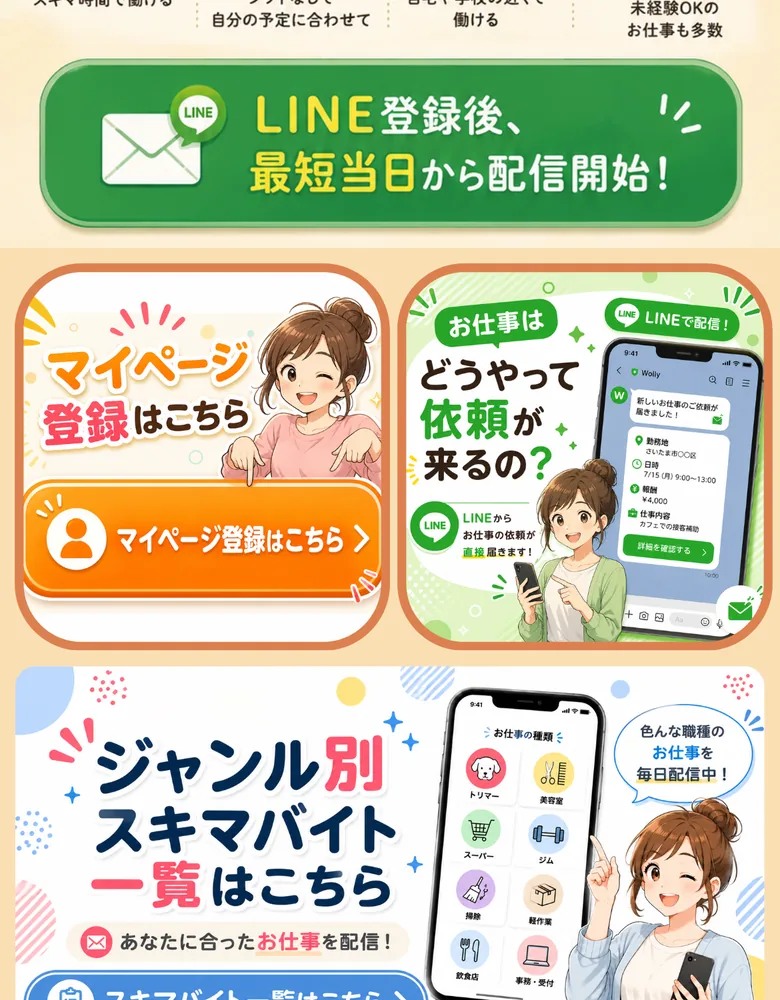
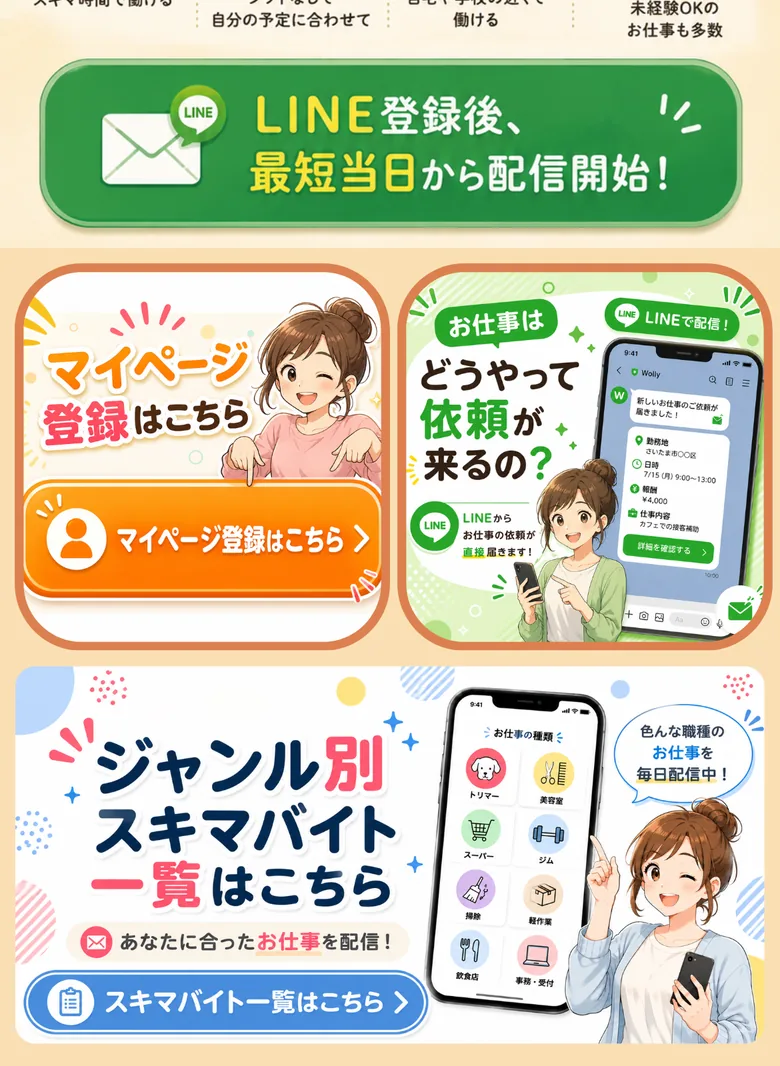
入口ページの下が切れていたのを直す

diff --git a/start/index.html b/start/index.html
@@ -11,7 +11,7 @@
 html,body{margin:0;background:#efe7da;-webkit-text-size-adjust:100%}
 body{font-family:"Hiragino Maru Gothic ProN","Hiragino Sans","Yu Gothic",sans-serif;color:#3a332d}
 a,button{-webkit-tap-highlight-color:transparent}
-.wrap{max-width:560px;margin:0 auto;background:#fff;min-height:100vh;box-shadow:0 0 40px rgba(0,0,0,.08)}
+.wrap{max-width:560px;margin:0 auto;background:#fff;min-height:100vh;padding-bottom:calc(16px + env(safe-area-inset-bottom));box-shadow:0 0 40px rgba(0,0,0,.08)}
 .pg{position:relative;width:100%}
 .pg img{display:block;width:100%;height:auto}
 /* リンクの場所（絵の上に透明のボタン） */
@@ -35,7 +35,7 @@ a,button{-webkit-tap-highlight-color:transparent}
 .sh .grab{position:absolute;top:7px;left:50%;width:44px;height:5px;margin-left:-22px;border-radius:9px;background:rgba(255,255,255,.85);box-shadow:0 1px 4px rgba(0,0,0,.25);z-index:3}
 .x{position:absolute;top:12px;right:12px;z-index:3;width:42px;height:42px;border-radius:50%;border:2px solid #fff;background:rgba(58,51,45,.62);color:#fff;font-size:22px;line-height:1;cursor:pointer;box-shadow:0 3px 10px rgba(0,0,0,.25);display:grid;place-items:center}
 .x:active{transform:scale(.92)}
-.back{display:block;width:calc(100% - 40px);margin:18px auto 28px;padding:14px;border:0;border-radius:999px;background:#5f8f3e;color:#fff;font:inherit;font-weight:700;font-size:16px;box-shadow:0 4px 0 #3f6a25;cursor:pointer}
+.back{display:block;width:calc(100% - 40px);margin:18px auto calc(28px + env(safe-area-inset-bottom));padding:14px;border:0;border-radius:999px;background:#5f8f3e;color:#fff;font:inherit;font-weight:700;font-size:16px;box-shadow:0 4px 0 #3f6a25;cursor:pointer}
 .back:active{transform:translateY(3px);box-shadow:0 1px 0 #3f6a25}
 /* ページを移るときのふわっ */
 .leave{position:fixed;inset:0;z-index:80;background:#fff;opacity:0;pointer-events:none;transition:opacity .35s}
@@ -44,9 +44,9 @@ a,button{-webkit-tap-highlight-color:transparent}
 </style>
 </head>
 <body>
-<div class="wrap"><div class="pg" style="aspect-ratio:780/2400"><img src="img/main-1.webp" width="780" height="1400" alt="" decoding="async"><img src="img/main-2.webp" width="780" height="1000" alt="" loading=lazy decoding="async"><a class="hs big" href="https://liff.line.me/2007823365-RNfPYqlv?page=u00" data-go style="left:1.90%;top:69.300%;width:48.10%;height:16.150%" aria-label="マイページ登録"></a><button type="button" class="hs big" data-sheet="start" style="left:50.95%;top:69.300%;width:48.10%;height:16.150%" aria-label="お仕事はどうやって依頼が来るの？（Wollyの始め方）"></button><button type="button" class="hs big" data-sheet="topics" style="left:1.95%;top:86.092%;width:96.08%;height:15.733%" aria-label="ジャンル別スキマバイト一覧"></button></div></div>
-<template id="t-start"><div class="pg" style="aspect-ratio:780/11536"><img src="img/start-1.webp" width="780" height="1400" alt="" loading=lazy decoding="async"><img src="img/start-2.webp" width="780" height="1400" alt="" loading=lazy decoding="async"><img src="img/start-3.webp" width="780" height="1400" alt="" loading=lazy decoding="async"><img src="img/start-4.webp" width="780" height="1400" alt="" loading=lazy decoding="async"><img src="img/start-5.webp" width="780" height="1400" alt="" loading=lazy decoding="async"><img src="img/start-6.webp" width="780" height="1400" alt="" loading=lazy decoding="async"><img src="img/start-7.webp" width="780" height="1400" alt="" loading=lazy decoding="async"><img src="img/start-8.webp" width="780" height="1400" alt="" loading=lazy decoding="async"><img src="img/start-9.webp" width="780" height="336" alt="" loading=lazy decoding="async"><a class="hs" href="https://liff.line.me/2007823365-RNfPYqlv?page=u00" data-go style="left:16.38%;top:27.979%;width:65.28%;height:1.288%" aria-label="マイページ登録"></a><a class="hs" href="https://liff.line.me/2007823365-RNfPYqlv?page=u00" data-go style="left:17.36%;top:41.973%;width:65.28%;height:1.288%" aria-label="マイページ登録"></a><a class="hs" href="https://liff.line.me/2007823365-RNfPYqlv?page=u00" data-go style="left:8.36%;top:55.810%;width:83.26%;height:1.644%" aria-label="マイページ登録"></a><a class="hs" href="https://liff.line.me/2007823365-RNfPYqlv?page=u00" data-go style="left:13.46%;top:70.501%;width:73.10%;height:1.442%" aria-label="マイページ登録"></a></div></template>
-<template id="t-topics"><div class="pg" style="aspect-ratio:780/2586"><img src="img/topics-1.webp" width="780" height="1400" alt="" loading=lazy decoding="async"><img src="img/topics-2.webp" width="780" height="1186" alt="" loading=lazy decoding="async"><a class="hs" href="https://line.me/R/oaMessage/@908wrcaq/?%E3%83%88%E3%83%AA%E3%83%9E%E3%83%BC%E3%82%A2%E3%83%B3%E3%82%B1%E3%83%BC%E3%83%88%E3%81%AB%E5%9B%9E%E7%AD%94%E3%81%99%E3%82%8B" data-go style="left:6.72%;top:33.418%;width:86.56%;height:5.584%" aria-label="トリマーアンケートに回答する"></a><a class="hs" href="https://line.me/R/oaMessage/@908wrcaq/?%E5%8B%95%E7%89%A9%E3%82%B1%E3%82%A2%E3%82%B9%E3%82%BF%E3%83%83%E3%83%95%E3%82%A2%E3%83%B3%E3%82%B1%E3%83%BC%E3%83%88%E3%81%AB%E5%9B%9E%E7%AD%94%E3%81%99%E3%82%8B" data-go style="left:6.72%;top:38.971%;width:86.56%;height:5.553%" aria-label="動物ケアスタッフアンケートに回答する"></a><a class="hs" href="https://line.me/R/oaMessage/@908wrcaq/?%E6%B8%85%E6%8E%83%E3%82%B9%E3%82%BF%E3%83%83%E3%83%95%E3%82%A2%E3%83%B3%E3%82%B1%E3%83%BC%E3%83%88%E3%81%AB%E5%9B%9E%E7%AD%94%E3%81%99%E3%82%8B" data-go style="left:6.72%;top:43.782%;width:86.56%;height:5.584%" aria-label="清掃スタッフアンケートに回答する"></a><a class="hs" href="https://line.me/R/oaMessage/@908wrcaq/?%E7%BE%8E%E5%AE%B9%E5%B8%AB%E3%82%A2%E3%82%B7%E3%82%B9%E3%82%BF%E3%83%B3%E3%83%88%E3%82%A2%E3%83%B3%E3%82%B1%E3%83%BC%E3%83%88%E3%82%92%E5%9B%9E%E7%AD%94%E3%81%99%E3%82%8B" data-go style="left:6.72%;top:49.335%;width:86.56%;height:4.849%" aria-label="美容師アシスタントアンケートを回答する"></a><a class="hs" href="https://line.me/R/oaMessage/@908wrcaq/?%E7%BE%8E%E5%AE%B9%E5%B8%AB%E3%82%B9%E3%82%BF%E3%82%A4%E3%83%AA%E3%82%B9%E3%83%88%E3%82%A2%E3%83%B3%E3%82%B1%E3%83%BC%E3%83%88%E3%82%92%E5%9B%9E%E7%AD%94%E3%81%99%E3%82%8B" data-go style="left:6.72%;top:54.153%;width:86.56%;height:5.584%" aria-label="美容師スタイリストアンケートを回答する"></a><a class="hs" href="https://line.me/R/oaMessage/@908wrcaq/?%E4%BF%9D%E8%82%B2%E5%A3%AB%E3%82%A2%E3%83%B3%E3%82%B1%E3%83%BC%E3%83%88%E3%81%AB%E5%9B%9E%E7%AD%94%E3%81%99%E3%82%8B" data-go style="left:6.72%;top:59.002%;width:86.56%;height:5.553%" aria-label="保育士アンケートに回答する"></a><a class="hs" href="https://line.me/R/oaMessage/@908wrcaq/?%E4%BF%9D%E8%82%B2%E8%A3%9C%E5%8A%A9%E3%82%B9%E3%82%BF%E3%83%83%E3%83%95%E3%82%A2%E3%83%B3%E3%82%B1%E3%83%BC%E3%83%88%E3%81%AB%E5%9B%9E%E7%AD%94%E3%81%99%E3%82%8B" data-go style="left:6.72%;top:63.821%;width:86.56%;height:5.584%" aria-label="保育補助スタッフアンケートに回答する"></a><a class="hs" href="https://line.me/R/oaMessage/@908wrcaq/?%E5%9C%B0%E5%85%83%E3%81%AE%E3%82%B7%E3%83%A7%E3%83%83%E3%83%97%E3%82%A2%E3%83%B3%E3%82%B1%E3%83%BC%E3%83%88%E3%81%AB%E5%9B%9E%E7%AD%94%E3%81%99%E3%82%8B" data-go style="left:6.72%;top:68.677%;width:86.56%;height:5.553%" aria-label="地元のショップアンケートに回答する"></a><a class="hs" href="https://line.me/R/oaMessage/@908wrcaq/?%E3%83%AA%E3%83%A2%E3%83%BC%E3%83%88%E3%82%A2%E3%83%B3%E3%82%B1%E3%83%BC%E3%83%88%E3%81%AB%E5%9B%9E%E7%AD%94%E3%81%99%E3%82%8B" data-go style="left:6.72%;top:74.192%;width:86.56%;height:4.888%" aria-label="リモートアンケートに回答する"></a><a class="hs" href="https://line.me/R/oaMessage/@908wrcaq/?%E3%82%A4%E3%83%99%E3%83%B3%E3%83%88%E3%82%B9%E3%82%BF%E3%83%83%E3%83%95%E3%82%A2%E3%83%B3%E3%82%B1%E3%83%BC%E3%83%88%E3%81%AB%E5%9B%9E%E7%AD%94%E3%81%99%E3%82%8B" data-go style="left:6.72%;top:78.345%;width:86.56%;height:5.553%" aria-label="イベントスタッフアンケートに回答する"></a><a class="hs" href="https://line.me/R/oaMessage/@908wrcaq/?%E3%82%B9%E3%83%BC%E3%83%91%E3%83%BC%E3%82%B9%E3%82%BF%E3%83%83%E3%83%95%E3%82%A2%E3%83%B3%E3%82%B1%E3%83%BC%E3%83%88%E3%81%AB%E5%9B%9E%E7%AD%94%E3%81%99%E3%82%8B" data-go style="left:6.72%;top:82.978%;width:86.56%;height:5.553%" aria-label="スーパースタッフアンケートに回答する"></a><a class="hs" href="https://line.me/R/oaMessage/@908wrcaq/?%E3%82%B3%E3%83%B3%E3%83%93%E3%83%8B%E3%82%A2%E3%83%B3%E3%82%B1%E3%83%BC%E3%83%88%E3%81%AB%E5%9B%9E%E7%AD%94%E3%81%99%E3%82%8B" data-go style="left:6.97%;top:87.804%;width:86.56%;height:5.553%" aria-label="コンビニアンケートに回答する"></a><a class="hs" href="https://liff.line.me/2007823365-RNfPYqlv?page=u01" data-go style="left:16.67%;top:95.429%;width:71.56%;height:7.193%" aria-label="求人一覧を見る"></a></div></template>
+<div class="wrap"><div class="pg" style="aspect-ratio:780/2466"><img src="img/main-1.webp" width="780" height="1400" alt="" decoding="async"><img src="img/main-2.webp" width="780" height="1066" alt="" loading=lazy decoding="async"><a class="hs big" href="https://liff.line.me/2007823365-RNfPYqlv?page=u00" data-go style="left:1.90%;top:67.445%;width:48.10%;height:15.718%" aria-label="マイページ登録"></a><button type="button" class="hs big" data-sheet="start" style="left:50.95%;top:67.445%;width:48.10%;height:15.718%" aria-label="お仕事はどうやって依頼が来るの？（Wollyの始め方）"></button><button type="button" class="hs big" data-sheet="topics" style="left:1.95%;top:83.788%;width:96.08%;height:15.312%" aria-label="ジャンル別スキマバイト一覧"></button></div></div>
+<template id="t-start"><div class="pg" style="aspect-ratio:780/11602"><img src="img/start-1.webp" width="780" height="1400" alt="" loading=lazy decoding="async"><img src="img/start-2.webp" width="780" height="1400" alt="" loading=lazy decoding="async"><img src="img/start-3.webp" width="780" height="1400" alt="" loading=lazy decoding="async"><img src="img/start-4.webp" width="780" height="1400" alt="" loading=lazy decoding="async"><img src="img/start-5.webp" width="780" height="1400" alt="" loading=lazy decoding="async"><img src="img/start-6.webp" width="780" height="1400" alt="" loading=lazy decoding="async"><img src="img/start-7.webp" width="780" height="1400" alt="" loading=lazy decoding="async"><img src="img/start-8.webp" width="780" height="1400" alt="" loading=lazy decoding="async"><img src="img/start-9.webp" width="780" height="402" alt="" loading=lazy decoding="async"><a class="hs" href="https://liff.line.me/2007823365-RNfPYqlv?page=u00" data-go style="left:16.38%;top:27.819%;width:65.28%;height:1.281%" aria-label="マイページ登録"></a><a class="hs" href="https://liff.line.me/2007823365-RNfPYqlv?page=u00" data-go style="left:17.36%;top:41.734%;width:65.28%;height:1.281%" aria-label="マイページ登録"></a><a class="hs" href="https://liff.line.me/2007823365-RNfPYqlv?page=u00" data-go style="left:8.36%;top:55.492%;width:83.26%;height:1.634%" aria-label="マイページ登録"></a><a class="hs" href="https://liff.line.me/2007823365-RNfPYqlv?page=u00" data-go style="left:13.46%;top:70.100%;width:73.10%;height:1.434%" aria-label="マイページ登録"></a></div></template>
+<template id="t-topics"><div class="pg" style="aspect-ratio:780/2652"><img src="img/topics-1.webp" width="780" height="1400" alt="" loading=lazy decoding="async"><img src="img/topics-2.webp" width="780" height="1252" alt="" loading=lazy decoding="async"><a class="hs" href="https://line.me/R/oaMessage/@908wrcaq/?%E3%83%88%E3%83%AA%E3%83%9E%E3%83%BC%E3%82%A2%E3%83%B3%E3%82%B1%E3%83%BC%E3%83%88%E3%81%AB%E5%9B%9E%E7%AD%94%E3%81%99%E3%82%8B" data-go style="left:6.72%;top:32.587%;width:86.56%;height:5.445%" aria-label="トリマーアンケートに回答する"></a><a class="hs" href="https://line.me/R/oaMessage/@908wrcaq/?%E5%8B%95%E7%89%A9%E3%82%B1%E3%82%A2%E3%82%B9%E3%82%BF%E3%83%83%E3%83%95%E3%82%A2%E3%83%B3%E3%82%B1%E3%83%BC%E3%83%88%E3%81%AB%E5%9B%9E%E7%AD%94%E3%81%99%E3%82%8B" data-go style="left:6.72%;top:38.002%;width:86.56%;height:5.415%" aria-label="動物ケアスタッフアンケートに回答する"></a><a class="hs" href="https://line.me/R/oaMessage/@908wrcaq/?%E6%B8%85%E6%8E%83%E3%82%B9%E3%82%BF%E3%83%83%E3%83%95%E3%82%A2%E3%83%B3%E3%82%B1%E3%83%BC%E3%83%88%E3%81%AB%E5%9B%9E%E7%AD%94%E3%81%99%E3%82%8B" data-go style="left:6.72%;top:42.692%;width:86.56%;height:5.445%" aria-label="清掃スタッフアンケートに回答する"></a><a class="hs" href="https://line.me/R/oaMessage/@908wrcaq/?%E7%BE%8E%E5%AE%B9%E5%B8%AB%E3%82%A2%E3%82%B7%E3%82%B9%E3%82%BF%E3%83%B3%E3%83%88%E3%82%A2%E3%83%B3%E3%82%B1%E3%83%BC%E3%83%88%E3%82%92%E5%9B%9E%E7%AD%94%E3%81%99%E3%82%8B" data-go style="left:6.72%;top:48.107%;width:86.56%;height:4.729%" aria-label="美容師アシスタントアンケートを回答する"></a><a class="hs" href="https://line.me/R/oaMessage/@908wrcaq/?%E7%BE%8E%E5%AE%B9%E5%B8%AB%E3%82%B9%E3%82%BF%E3%82%A4%E3%83%AA%E3%82%B9%E3%83%88%E3%82%A2%E3%83%B3%E3%82%B1%E3%83%BC%E3%83%88%E3%82%92%E5%9B%9E%E7%AD%94%E3%81%99%E3%82%8B" data-go style="left:6.72%;top:52.805%;width:86.56%;height:5.445%" aria-label="美容師スタイリストアンケートを回答する"></a><a class="hs" href="https://line.me/R/oaMessage/@908wrcaq/?%E4%BF%9D%E8%82%B2%E5%A3%AB%E3%82%A2%E3%83%B3%E3%82%B1%E3%83%BC%E3%83%88%E3%81%AB%E5%9B%9E%E7%AD%94%E3%81%99%E3%82%8B" data-go style="left:6.72%;top:57.534%;width:86.56%;height:5.415%" aria-label="保育士アンケートに回答する"></a><a class="hs" href="https://line.me/R/oaMessage/@908wrcaq/?%E4%BF%9D%E8%82%B2%E8%A3%9C%E5%8A%A9%E3%82%B9%E3%82%BF%E3%83%83%E3%83%95%E3%82%A2%E3%83%B3%E3%82%B1%E3%83%BC%E3%83%88%E3%81%AB%E5%9B%9E%E7%AD%94%E3%81%99%E3%82%8B" data-go style="left:6.72%;top:62.232%;width:86.56%;height:5.445%" aria-label="保育補助スタッフアンケートに回答する"></a><a class="hs" href="https://line.me/R/oaMessage/@908wrcaq/?%E5%9C%B0%E5%85%83%E3%81%AE%E3%82%B7%E3%83%A7%E3%83%83%E3%83%97%E3%82%A2%E3%83%B3%E3%82%B1%E3%83%BC%E3%83%88%E3%81%AB%E5%9B%9E%E7%AD%94%E3%81%99%E3%82%8B" data-go style="left:6.72%;top:66.968%;width:86.56%;height:5.415%" aria-label="地元のショップアンケートに回答する"></a><a class="hs" href="https://line.me/R/oaMessage/@908wrcaq/?%E3%83%AA%E3%83%A2%E3%83%BC%E3%83%88%E3%82%A2%E3%83%B3%E3%82%B1%E3%83%BC%E3%83%88%E3%81%AB%E5%9B%9E%E7%AD%94%E3%81%99%E3%82%8B" data-go style="left:6.72%;top:72.345%;width:86.56%;height:4.766%" aria-label="リモートアンケートに回答する"></a><a class="hs" href="https://line.me/R/oaMessage/@908wrcaq/?%E3%82%A4%E3%83%99%E3%83%B3%E3%83%88%E3%82%B9%E3%82%BF%E3%83%83%E3%83%95%E3%82%A2%E3%83%B3%E3%82%B1%E3%83%BC%E3%83%88%E3%81%AB%E5%9B%9E%E7%AD%94%E3%81%99%E3%82%8B" data-go style="left:6.72%;top:76.395%;width:86.56%;height:5.415%" aria-label="イベントスタッフアンケートに回答する"></a><a class="hs" href="https://line.me/R/oaMessage/@908wrcaq/?%E3%82%B9%E3%83%BC%E3%83%91%E3%83%BC%E3%82%B9%E3%82%BF%E3%83%83%E3%83%95%E3%82%A2%E3%83%B3%E3%82%B1%E3%83%BC%E3%83%88%E3%81%AB%E5%9B%9E%E7%AD%94%E3%81%99%E3%82%8B" data-go style="left:6.72%;top:80.913%;width:86.56%;height:5.415%" aria-label="スーパースタッフアンケートに回答する"></a><a class="hs" href="https://line.me/R/oaMessage/@908wrcaq/?%E3%82%B3%E3%83%B3%E3%83%93%E3%83%8B%E3%82%A2%E3%83%B3%E3%82%B1%E3%83%BC%E3%83%88%E3%81%AB%E5%9B%9E%E7%AD%94%E3%81%99%E3%82%8B" data-go style="left:6.97%;top:85.618%;width:86.56%;height:5.415%" aria-label="コンビニアンケートに回答する"></a><a class="hs" href="https://liff.line.me/2007823365-RNfPYqlv?page=u01" data-go style="left:16.67%;top:93.054%;width:71.56%;height:7.014%" aria-label="求人一覧を見る"></a></div></template>
 <div class="leave" id="leave"></div>
 <script>
 (function(){
